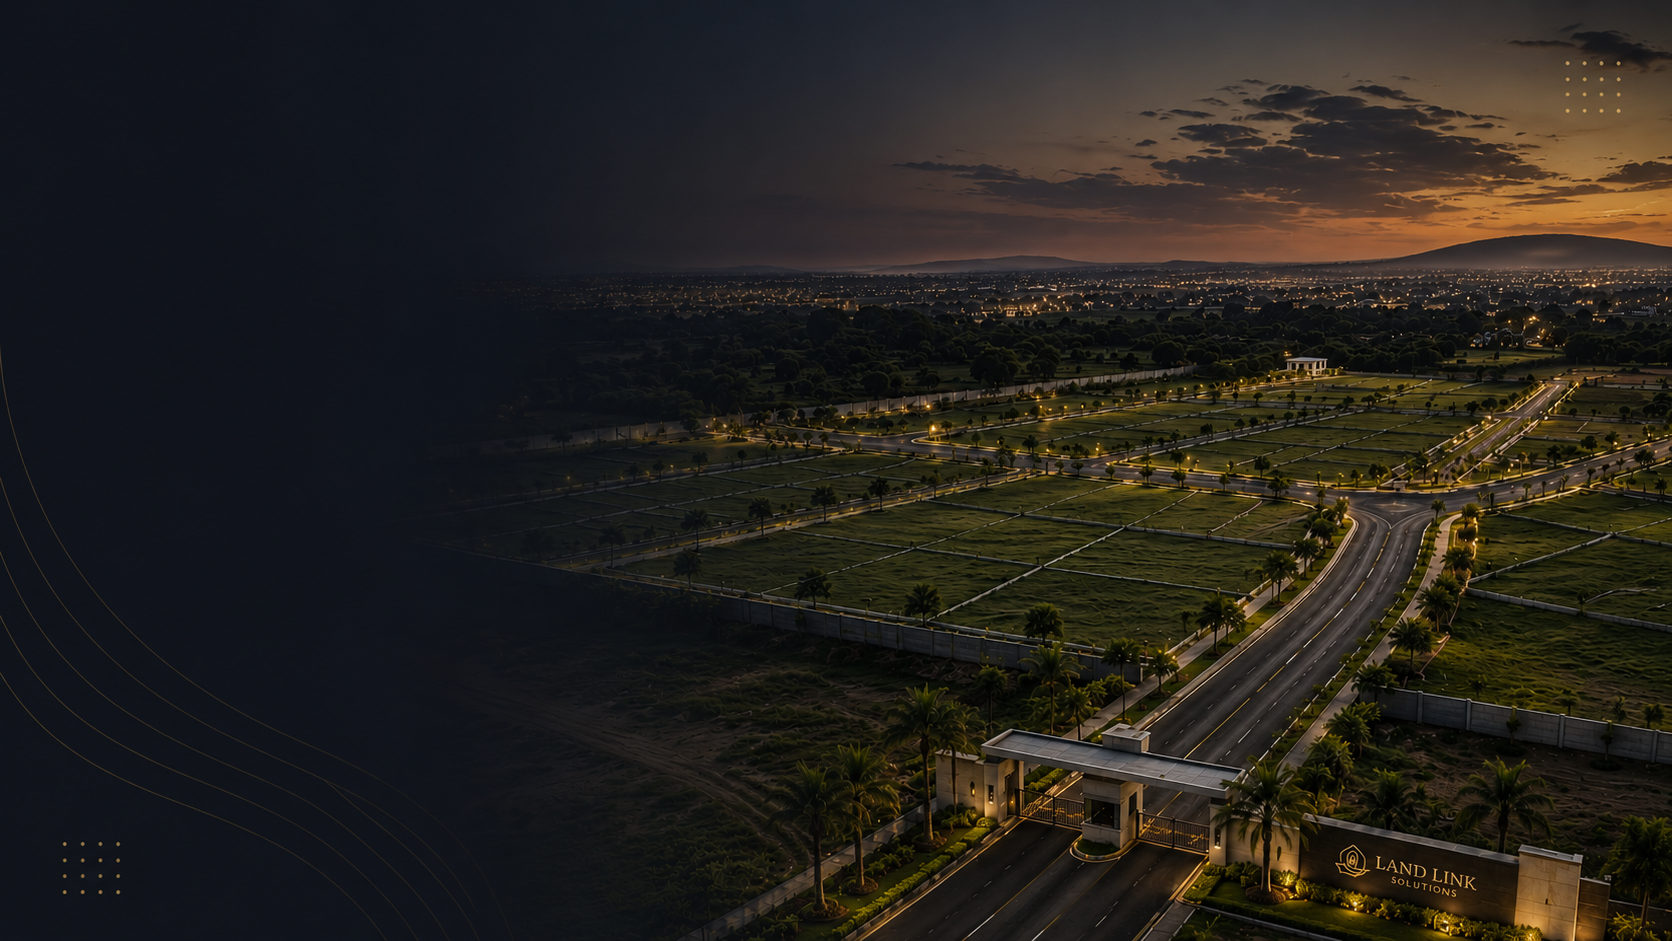
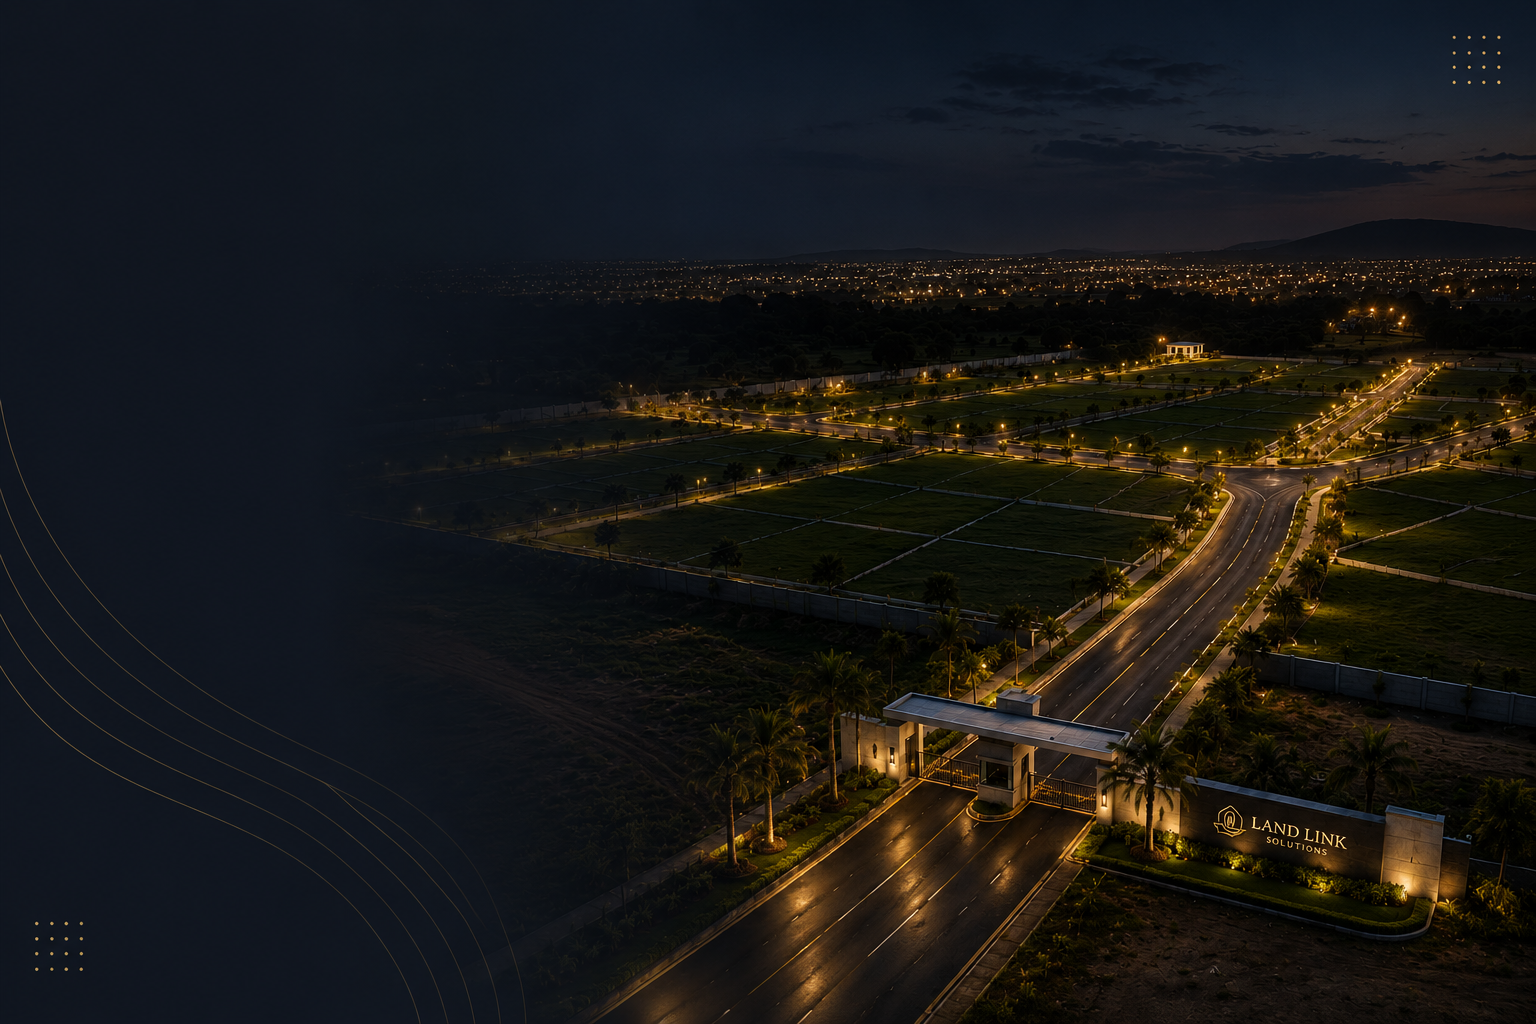
.

diff --git a/index.html b/index.html
@@ -188,7 +188,7 @@ We are a team of experienced lawyers and engineers working across Edo State, Abu
 
 
 
-            <div class="bg-linear-to-br from-(--secondary-color)] to-(--light-color)] rounded-3xl px-4 lg:px-12">
+            <div class="bg-linear-to-br from-(--secondary-color)] to-(--light-color)] rounded-3xl p-4 lg:p-12">
                 <div class="grid md:grid-cols-2 gap-12 items-center">
                     <div data-aos="fade-right">
                         <h3 class="text-3xl font-bold mb-6" style="color: var(--dark-color); font-family: 'Playfair Display', serif;">
@@ -688,7 +688,7 @@ Our team is ready to guide you through every step. Whether you're looking to man
                             </div>
                             <div>
                                 <h4 class="font-bold mb-2" style="color: var(--dark-color);">Phone Numbers</h4>
-                                <p class="text-gray-700">Mobile: +234 807 190 3819</p>
+                                <p class="text-gray-700">Mobile: +234 813 617 1294<br>+234 807 190 3819</p>
                             </div>
                         </div>
 

diff --git a/Css/tailwind.css b/Css/tailwind.css
@@ -1136,6 +1136,11 @@
       padding: calc(var(--spacing) * 14);
     }
   }
+  .md\:px-12 {
+    @media (width >= 48rem) {
+      padding-inline: calc(var(--spacing) * 12);
+    }
+  }
   .md\:text-5xl {
     @media (width >= 48rem) {
       font-size: var(--text-5xl);
@@ -1182,6 +1187,11 @@
   .lg\:flex-row {
     @media (width >= 64rem) {
       flex-direction: row;
+    }
+  }
+  .lg\:p-12 {
+    @media (width >= 64rem) {
+      padding: calc(var(--spacing) * 12);
     }
   }
   .lg\:px-12 {
